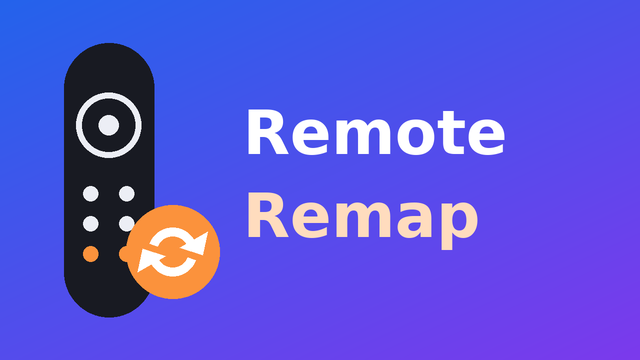
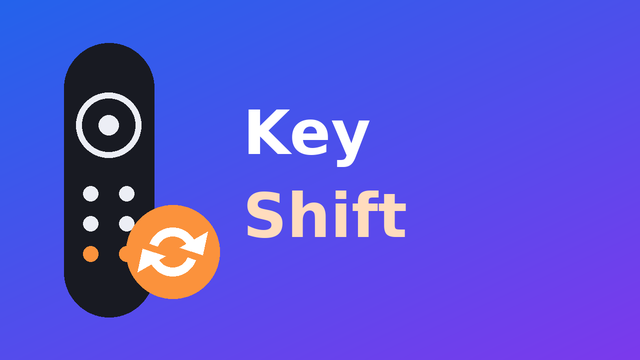
Rename app to KeyShift (com.clean.keyshift)
New package so launchers create a fresh tile with the icon/banner.
First run imports the live remapd config so existing rules carry over.
Commands queue an @ensure marker that the worker expands at run time,
so the import can't be overwritten by a stale config.

Changed region(s): [[0.375, 0.5194, 0.75, 0.7028], [0.5, 0.3056, 0.8125, 0.4583], [0.4062, 0.3056, 0.4688, 0.4278]]

diff --git a/src/com/clean/keyshift/RemapConfig.java b/src/com/clean/keyshift/RemapConfig.java
@@ -1,4 +1,4 @@
-package com.clean.shellbridge;
+package com.clean.keyshift;
 
 import android.content.Context;
 import android.content.SharedPreferences;
@@ -40,6 +40,42 @@ public class RemapConfig {
     static boolean enabled(Context c) { return prefs(c).getBoolean("enabled", true); }
     static void setEnabled(Context c, boolean on) { prefs(c).edit().putBoolean("enabled", on).apply(); }
 
+    /** Marker queued instead of a concrete command: the worker builds ensureCmd() at run time. */
+    static final String ENSURE = "@ensure";
+
+    static boolean needsImport(Context c) { return !prefs(c).getBoolean("importDone", false); }
+
+    /** First run: adopt the rules remapd is already using (e.g. written by an earlier version). */
+    static void importConf(Context c, String conf) {
+        SharedPreferences.Editor e = prefs(c).edit().putBoolean("importDone", true);
+        int n = 0;
+        android.content.pm.PackageManager pm = c.getPackageManager();
+        for (String line : conf.split("\n")) {
+            String[] p = line.trim().split("\\s+", 3);
+            if (p.length < 2 || p[0].startsWith("#")) continue;
+            int code;
+            try { code = Integer.parseInt(p[0]); } catch (NumberFormatException ex) { continue; }
+            String rule = null;
+            if (p[1].equals("start") && p.length == 3) {
+                String label = p[2];
+                try {
+                    label = pm.getActivityInfo(android.content.ComponentName.unflattenFromString(p[2]), 0).loadLabel(pm).toString();
+                } catch (Exception ignored) {}
+                rule = "start\t" + p[2] + "\t" + label;
+            } else if (p[1].equals("key") && p.length == 3) {
+                int t = Integer.parseInt(p[2].trim()); String name = "key " + t;
+                for (int i = 0; i < TARGETS.length; i++) if (TARGETS[i] == t) name = TARGET_NAMES[i];
+                rule = "key\t" + t + "\t" + name;
+            } else if (p[1].equals("none")) rule = "none";
+            if (rule != null) {
+                if (n == 0) for (int k : CODES) e.remove("k" + k);   // replace defaults with the imported set
+                e.putString("k" + code, rule); n++;
+            }
+        }
+        e.commit();
+        android.util.Log.i("KeyShift", "imported " + n + " rules from existing config");
+    }
+
     static String describe(String rule) {
         if (rule == null) return "default";
         String[] p = rule.split("\t");
@@ -50,7 +86,7 @@ public class RemapConfig {
     }
 
     static String confText(Context c) {
-        StringBuilder sb = new StringBuilder("# written by Remote Remap\n");
+        StringBuilder sb = new StringBuilder("# written by KeyShift\n");
         for (int code : CODES) {
             String r = get(c, code);
             if (r == null) continue;

diff --git a/src/com/clean/keyshift/BridgeService.java b/src/com/clean/keyshift/BridgeService.java
@@ -1,4 +1,4 @@
-package com.clean.shellbridge;
+package com.clean.keyshift;
 
 import android.app.Notification;
 import android.app.NotificationChannel;
@@ -19,14 +19,14 @@ public class BridgeService extends VpnService {
     public int onStartCommand(Intent intent, int flags, int startId) {
         if (Build.VERSION.SDK_INT >= 26) {
             NotificationManager nm = getSystemService(NotificationManager.class);
-            nm.createNotificationChannel(new NotificationChannel("bridge", "Remote Remap", NotificationManager.IMPORTANCE_MIN));
+            nm.createNotificationChannel(new NotificationChannel("bridge", "KeyShift", NotificationManager.IMPORTANCE_MIN));
             startForeground(1, new Notification.Builder(this, "bridge")
-                .setContentTitle("Remote Remap").setContentText("Applying button mappings")
+                .setContentTitle("KeyShift").setContentText("Applying button mappings")
                 .setSmallIcon(android.R.drawable.ic_menu_manage).build());
         }
         if (!running) {
             running = true;
-            new Thread(new BridgeWorker(this), "shellbridge").start();
+            new Thread(new BridgeWorker(this), "keyshift").start();
         }
         return START_NOT_STICKY;
     }
@@ -37,7 +37,7 @@ public class BridgeService extends VpnService {
         Intent consent = VpnService.prepare(this);
         if (consent != null) throw new Exception("VPN consent missing: appops set " + getPackageName() + " ACTIVATE_VPN allow");
         Builder b = new Builder();
-        b.setSession("Remote Remap");
+        b.setSession("KeyShift");
         b.addAddress("10.99.0.1", 32);
         b.addRoute("10.99.0.2", 32);
         b.setMtu(1500);

diff --git a/src/com/clean/keyshift/AdbClient.java b/src/com/clean/keyshift/AdbClient.java
@@ -1,4 +1,4 @@
-package com.clean.shellbridge;
+package com.clean.keyshift;
 
 import android.util.Log;
 
@@ -7,7 +7,7 @@ import java.io.IOException;
 
 /** Tiny adb wire-protocol client over MiniTcp: CNXN + AUTH, then one-shot shell: commands. */
 public class AdbClient {
-    static final String TAG = "ShellBridge";
+    static final String TAG = "KeyShift";
     static final int CNXN = 0x4e584e43, AUTH = 0x48545541, OPEN = 0x4e45504f,
             OKAY = 0x59414b4f, CLSE = 0x45534c43, WRTE = 0x45545257;
     static final int VERSION = 0x01000000, MAXDATA = 4096;
@@ -45,7 +45,7 @@ public class AdbClient {
 
     /** Returns normally once adbd sent CNXN (authorized). Waits up to authWaitMs for the TV prompt. */
     public void connect(AdbKey key, long authWaitMs) throws Exception {
-        send(CNXN, VERSION, MAXDATA, "host::shellbridge\0".getBytes("UTF-8"));
+        send(CNXN, VERSION, MAXDATA, "host::keyshift\0".getBytes("UTF-8"));
         boolean sentSig = false, sentPub = false;
         while (true) {
             recv(sentPub ? authWaitMs : 5000);
@@ -55,7 +55,7 @@ public class AdbClient {
                 send(AUTH, 2, 0, key.sign(mData)); sentSig = true;
                 Log.i(TAG, "adb: sent signature");
             } else if (!sentPub) {
-                send(AUTH, 3, 0, key.publicKeyPayload("shellbridge@firetv")); sentPub = true;
+                send(AUTH, 3, 0, key.publicKeyPayload("keyshift@firetv")); sentPub = true;
                 Log.w(TAG, "adb: key not yet trusted -> sent public key; ACCEPT THE PROMPT ON THE TV");
             } else {
                 throw new IOException("adb auth rejected");

diff --git a/src/com/clean/keyshift/BridgeWorker.java b/src/com/clean/keyshift/BridgeWorker.java
@@ -1,4 +1,4 @@
-package com.clean.shellbridge;
+package com.clean.keyshift;
 
 import android.os.ParcelFileDescriptor;
 import android.util.Log;
@@ -8,7 +8,7 @@ import java.io.FileOutputStream;
 
 /** VPN up -> userspace TCP to adbd -> adb auth -> run queued shell commands -> VPN down. */
 public class BridgeWorker implements Runnable {
-    static final String TAG = "ShellBridge";
+    static final String TAG = "KeyShift";
     final BridgeService svc;
 
     public BridgeWorker(BridgeService svc) { this.svc = svc; }
@@ -28,8 +28,11 @@ public class BridgeWorker implements Runnable {
             tcp.connect();
             AdbClient adb = new AdbClient(tcp);
             adb.connect(AdbKey.loadOrCreate(svc.getFilesDir()), 90000);
+            if (RemapConfig.needsImport(svc))
+                RemapConfig.importConf(svc, adb.exec("cat " + RemapConfig.D + "/remap.conf 2>/dev/null", 10000));
             String cmd;
             while ((cmd = Bridge.take()) != null) {
+                if (cmd.equals(RemapConfig.ENSURE)) cmd = RemapConfig.ensureCmd(svc);
                 result = adb.exec(cmd, 20000).trim();
                 Log.i(TAG, "shell result: " + result);
                 if (result.matches("(?s).*REMAPD \\d+.*")) RemapConfig.markEnsured(svc);

diff --git a/art/make_icons.py b/art/make_icons.py
@@ -1,4 +1,4 @@
-"""Draws the Remote Remap launcher icon + Fire TV banner (run: python3 art/make_icons.py)."""
+"""Draws the KeyShift launcher icon + Fire TV banner (run: python3 art/make_icons.py)."""
 import math, os
 from PIL import Image, ImageDraw, ImageFont
 
@@ -71,8 +71,8 @@ def banner():
     for f in ("/usr/share/fonts/truetype/dejavu/DejaVuSans-Bold.ttf",
               "/usr/share/fonts/truetype/liberation/LiberationSans-Bold.ttf"):
         if os.path.exists(f): font = ImageFont.truetype(f, int(H * 0.17)); break
-    d.text((W * 0.38, H * 0.27), "Remote", font=font, fill=(255, 255, 255))
-    d.text((W * 0.38, H * 0.50), "Remap", font=font, fill=(255, 220, 190))
+    d.text((W * 0.38, H * 0.27), "Key", font=font, fill=(255, 255, 255))
+    d.text((W * 0.38, H * 0.50), "Shift", font=font, fill=(255, 220, 190))
     return img
 
 def save(img, size, path):

diff --git a/src/com/clean/keyshift/MainActivity.java b/src/com/clean/keyshift/MainActivity.java
@@ -1,4 +1,4 @@
-package com.clean.shellbridge;
+package com.clean.keyshift;
 
 import android.app.Activity;
 import android.app.AlertDialog;
@@ -46,7 +46,7 @@ public class MainActivity extends Activity {
         root.setBackgroundColor(Color.rgb(18, 20, 26));
 
         TextView title = new TextView(this);
-        title.setText("Remote Remap");
+        title.setText("KeyShift");
         title.setTextSize(30); title.setTextColor(Color.WHITE);
         root.addView(title);
 
@@ -147,7 +147,7 @@ public class MainActivity extends Activity {
     }
 
     void apply() {
-        if (RemapConfig.enabled(this)) Bridge.run(this, RemapConfig.ensureCmd(this), false);
+        if (RemapConfig.enabled(this)) Bridge.run(this, RemapConfig.ENSURE, false);
         else Bridge.run(this, RemapConfig.stopCmd(), false);
     }
 

diff --git a/src/com/clean/keyshift/BootReceiver.java b/src/com/clean/keyshift/BootReceiver.java
@@ -1,4 +1,4 @@
-package com.clean.shellbridge;
+package com.clean.keyshift;
 
 import android.content.BroadcastReceiver;
 import android.content.Context;
@@ -9,9 +9,9 @@ import android.util.Log;
 public class BootReceiver extends BroadcastReceiver {
     @Override
     public void onReceive(Context c, Intent i) {
-        Log.i("ShellBridge", "boot broadcast: " + i.getAction());
+        Log.i("KeyShift", "boot broadcast: " + i.getAction());
         BootJob.schedule(c);
         if (RemapConfig.enabled(c) && !RemapConfig.ensuredThisBoot(c))
-            Bridge.run(c.getApplicationContext(), RemapConfig.ensureCmd(c), true);
+            Bridge.run(c.getApplicationContext(), RemapConfig.ENSURE, true);
     }
 }

diff --git a/src/com/clean/keyshift/BootJob.java b/src/com/clean/keyshift/BootJob.java
@@ -1,4 +1,4 @@
-package com.clean.shellbridge;
+package com.clean.keyshift;
 
 import android.app.job.JobInfo;
 import android.app.job.JobParameters;
@@ -24,8 +24,8 @@ public class BootJob extends JobService {
     @Override
     public boolean onStartJob(JobParameters params) {
         if (RemapConfig.enabled(this) && !RemapConfig.ensuredThisBoot(this)) {
-            Log.i("ShellBridge", "BootJob: new boot -> starting remapd");
-            Bridge.run(this, RemapConfig.ensureCmd(this), true);
+            Log.i("KeyShift", "BootJob: new boot -> starting remapd");
+            Bridge.run(this, RemapConfig.ENSURE, true);
         }
         return false;
     }

diff --git a/src/com/clean/keyshift/TunReader.java b/src/com/clean/keyshift/TunReader.java
@@ -1,4 +1,4 @@
-package com.clean.shellbridge;
+package com.clean.keyshift;
 
 /** Pumps packets from the tun fd into MiniTcp. Top-level class (no inner/anon classes). */
 public class TunReader implements Runnable {

diff --git a/src/com/clean/keyshift/LogTail.java b/src/com/clean/keyshift/LogTail.java
@@ -1,4 +1,4 @@
-package com.clean.shellbridge;
+package com.clean.keyshift;
 
 import java.io.BufferedReader;
 import java.io.InputStreamReader;

diff --git a/src/com/clean/keyshift/MiniTcp.java b/src/com/clean/keyshift/MiniTcp.java
@@ -1,4 +1,4 @@
-package com.clean.shellbridge;
+package com.clean.keyshift;
 
 import java.io.FileInputStream;
 import java.io.FileOutputStream;

diff --git a/src/com/clean/keyshift/Bridge.java b/src/com/clean/keyshift/Bridge.java
@@ -1,4 +1,4 @@
-package com.clean.shellbridge;
+package com.clean.keyshift;
 
 import android.content.Context;
 import android.content.Intent;
